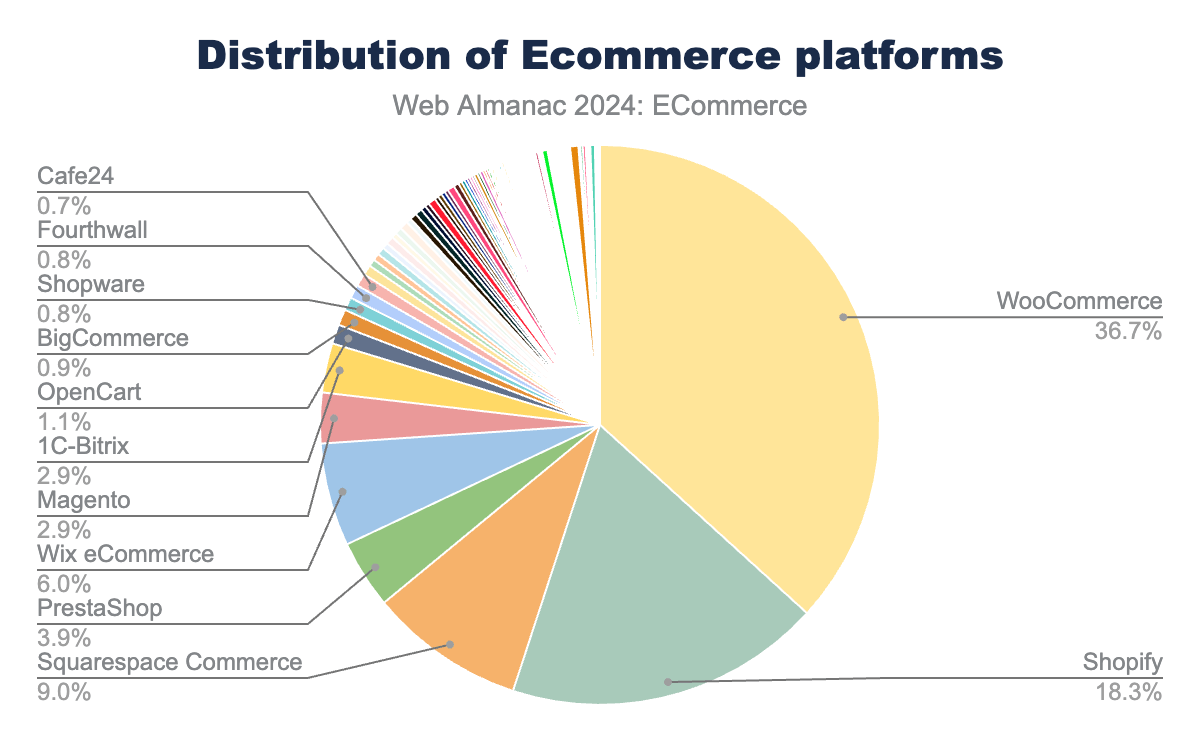
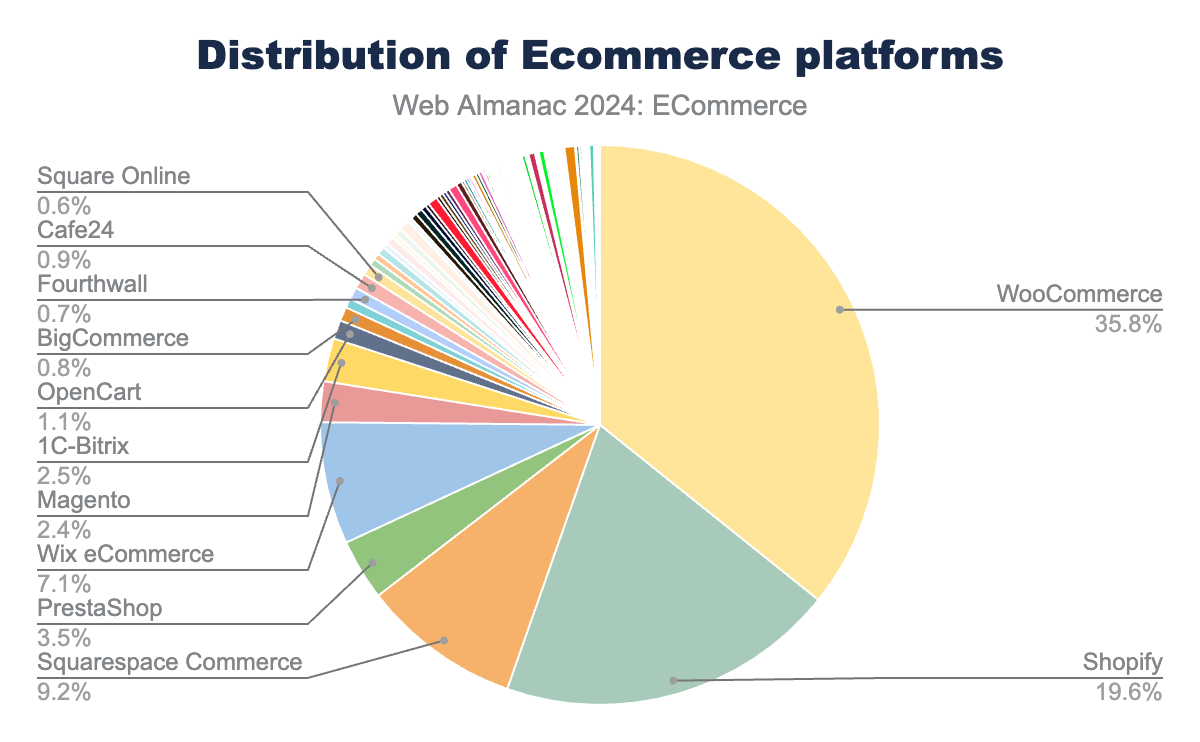
Fix first chart

diff --git a/src/content/en/2024/ecommerce.md b/src/content/en/2024/ecommerce.md
@@ -61,19 +61,17 @@ The accuracy of metrics and commentary may also be affected by the following lim
 
 In total, we detected nearly 2.5 million websites built on ecommerce platforms in 2024, representing approximately 21% of all the websites analyzed. The most widely used ecommerce platform is WooCommerce, followed by Shopify and Squarespace.
 
-WooCommerce (38%) and Shopify (18%) dominate the ecommerce platform landscape. OpenCart is the last of the 362 detected shop systems that manage to secure a share above 1% of the market.
-
 {{ figure_markup(
   image="ecommerce-platforms-distribution.png",
   caption="Distribution of Ecommerce platforms.",
-  description="Pie chart showing the distribution of ecommerce platforms used in 2024. WooCommerce leads with 36.7%, followed by Shopify with 18.3%, Squarespace Commerce with 9.0%",
+  description="Pie chart showing the distribution of ecommerce platforms used in 2024. WooCommerce leads with 35.8%, followed by Shopify with 19.6%, Squarespace Commerce with 9.2%",
   chart_url="https://docs.google.com/spreadsheets/d/e/2PACX-1vTQYSD_rO7eGM-ViE3WD7wQOV0itRwjmNy1lkKOyeF7L_b5EDvDlHjAgIzKBnVwExUzC_PSbg0t-3k5/pubchart?oid=2506095&format=interactive",
   sheets_gid="1000255969",
   sql_file="top_ecommerce.sql"
   )
 }}
 
-Over the years, the top five platforms have remained relatively consistent. However, Wix ecommerce surpassed PrestaShop in 2023, moving from 5th to 4th place. Trends indicate that the open-source project WooCommerce is slightly losing market share, decreasing from 37.3% in 2022 to 35.8% in 2024, while its commercial competitor, Shopify, is gaining market share in the same period (increasing from 17.7% to 19.6%).
+WooCommerce (36%) and Shopify (20%) dominate the ecommerce platform landscape. OpenCart is the last of the 362 detected shop systems that manage to secure a share above 1% of the market.
 
 {{ figure_markup(
   image="top-5-platforms-2021-2024.png",
@@ -85,9 +83,11 @@ Over the years, the top five platforms have remained relatively consistent. Howe
   )
 }}
 
+Over the years, the top five platforms have remained relatively consistent. However, Wix ecommerce surpassed PrestaShop in 2023, moving from 5th to 4th place. Trends indicate that the open-source project WooCommerce is slightly losing market share, decreasing from 37% in 2022 to 36% in 2024, while its commercial competitor, Shopify, is gaining market share in the same period (increasing from 18% to 20%).
+
 ## Top ecommerce platforms by rank
 
-Using the Chrome User Experience Report data, we looked at ecommerce platforms by rank. Our data shows that only a few ecommerce platforms are represented in the top 1,000 websites, while about 20% of the top 10 million websites use an ecommerce platform. This difference could be because the top 1,000 sites often use custom solutions.
+Using the Chrome User Experience Report data, we looked at ecommerce platforms by rank.
 
 {{ figure_markup(
   image="platform-adoption-by-rank.png",
@@ -99,9 +99,7 @@ Using the Chrome User Experience Report data, we looked at ecommerce platforms b
   )
 }}
 
-Compared to the overall web, there are noticeable differences in platform popularity among the top 10 million websites. For instance, Wix ecommerce loses its position in the top five platforms, while Magento joins the top five. In the top one million sites, Shopify overtakes WooCommerce as the most popular platform, while Squarespace and Wix ecommerce fall out of the top five and below the top 20.
-
-In the top 100,000 websites, Salesforce Commerce Cloud and Amazon Webstore emerge among the most used platforms, with Shopify still holding the number one spot. Finally, in the top 10,000 websites, none of the previously leading platforms are represented in the top five, which are instead dominated by commercial solutions such as Fourthwall, SAP, and Salesforce Commerce Cloud.
+Our data shows that only a few ecommerce platforms are represented in the top 1,000 websites, while about 20% of the top 10 million websites use an ecommerce platform. This difference could be because the top 1,000 sites often use custom solutions.
 
 <figure>
   <table>
@@ -161,9 +159,13 @@ In the top 100,000 websites, Salesforce Commerce Cloud and Amazon Webstore emerg
   </figcaption>
 </figure>
 
+Compared to the overall web, there are noticeable differences in platform popularity among the top 10 million websites. For instance, Wix ecommerce loses its position in the top five platforms, while Magento joins the top five. In the top one million sites, Shopify overtakes WooCommerce as the most popular platform, while Squarespace and Wix ecommerce fall out of the top five and below the top 20.
+
+In the top 100,000 websites, Salesforce Commerce Cloud and Amazon Webstore emerge among the most used platforms, with Shopify still holding the number one spot. Finally, in the top 10,000 websites, none of the previously leading platforms are represented in the top five, which are instead dominated by commercial solutions such as Fourthwall, SAP, and Salesforce Commerce Cloud.
+
 ## Top ecommerce platform by geography
 
-There are quite a few differences in preferences between geographies. We used additional data from the CrUX dataset, which categorizes the most visited websites per geogrpahical area. For example, `google.com`, while an American website, is also one of the most visited websites by all German internet users. We can see that three leading platforms take the top spot in each country: WooCommerce (violet), Shopify (green), and 1C-Bitrix (red). The following map visualizes only these three due to the limitations of Google Sheets.
+There are quite a few differences in preferences between geographies. We used additional data from the CrUX dataset, which categorizes the most visited websites per geographical area. For example, `google.com`, while an American website, is also one of the most visited websites by all German internet users.
 
 {{ figure_markup(
   image="top-ecommerce-platform-by-country.png",
@@ -174,6 +176,8 @@ There are quite a few differences in preferences between geographies. We used ad
   sql_file="top_shopsystem_by_geo.sql"
   )
 }}
+
+We can see that three leading platforms take the top spot in each country: WooCommerce (violet), Shopify (green), and 1C-Bitrix (red). The map visualizes only these three due to the limitations of Google Sheets.
 
 ## Core Web Vitals in ecommerce
 
@@ -206,8 +210,6 @@ Largest Contentful Paint (LCP) measures how long it takes for the main content o
 
 A good LCP time should be under 2.5 seconds. If it takes too long, it can make the website feel slow, and users might leave. To improve LCP, you can optimize images, make server responses faster, and minimize blocking scripts so that key content shows up more quickly.
 
-Despite these challenges, the top 10 ecommerce platforms have shown significant year-over-year improvements in their LCP scores. Platforms like Shopify, OpenCart, and Shopware have consistently had good LCP pass rates since 2022, while Tiendanube, a popular platform in Argentina, made impressive progress, increasing its pass rate from 28% in 2022 to 61% in 2024. On the other hand, WooCommerce lags behind with a pass rate of just 34%.
-
 {{ figure_markup(
   image="mobile-lcp-performance.png",
   caption="Mobile year-over-year Platform LCP performance.",
@@ -219,6 +221,8 @@ Despite these challenges, the top 10 ecommerce platforms have shown significant 
   height=644
   )
 }}
+
+Despite these challenges, the top 10 ecommerce platforms have shown significant year-over-year improvements in their LCP scores. Platforms like Shopify, OpenCart, and Shopware have consistently had good LCP pass rates since 2022, while Tiendanube, a popular platform in Argentina, made impressive progress, increasing its pass rate from 28% in 2022 to 61% in 2024. On the other hand, WooCommerce lags behind with a pass rate of just 34%.
 
 ### Cumulative Layout Shift (CLS)
 
@@ -270,8 +274,6 @@ The Lighthouse [performance score](https://developer.chrome.com/docs/lighthouse/
 
 The Lighthouse performance score is a weighted average of the five metric scores—First Contentful Paint (10%), Speed Index (10%), Largest Contentful Paint (25%), Total Blocking Time (30%), Cumulative Layout Shift (25%).
 
-We can see that Wix ecommerce performs very well on both desktop and mobile compared to other systems. This is surprising, as the ranking data shows that it is primarily used for websites outside the top 10 million, which are likely less professional stores. This performance could also be due to the limited customization options compared to open-source systems like WooCommerce.
-
 {{ figure_markup(
   image="median-lighthouse-performance-score.png",
   caption="Median Lighthouse performance score for various ecommerce platforms on desktop and mobile.",
@@ -283,6 +285,8 @@ We can see that Wix ecommerce performs very well on both desktop and mobile comp
   height=559
   )
 }}
+
+We can see that Wix ecommerce performs very well on both desktop and mobile compared to other systems. This is surprising, as the ranking data shows that it is primarily used for websites outside the top 10 million, which are likely less professional stores. This performance could also be due to the limited customization options compared to open-source systems like WooCommerce.
 
 If we lower the threshold to platforms that appear at least 5,000 times instead of 50,000 times, Gumroad scores very well, with a median score of 87 on desktop and 59 on mobile. Additionally, Argentina's most popular shop system, Tiendanube, also scores well, with 74 on desktop and 58 on mobile.
 
@@ -350,10 +354,6 @@ The detection of payment providers is not as advanced or precise as the detectio
 
 The following section focuses on each website with detected payment providers, even if no ecommerce system was identified.
 
-The data reveals that PayPal is the most commonly detected payment method on mobile websites, appearing on 3.5% of all pages in the dataset. This means PayPal was found on approximately 560,000 mobile pages out of more than 16 million analyzed.
-
-Apple Pay ranks second, being detected more frequently than Google Pay, which shows its growing presence in mobile ecommerce. Meanwhile, Shop Pay, a payment solution provided by Shopify, secures third place in the rankings.
-
 {{ figure_markup(
   image="mobile-payment-provider-distribution.png",
   caption="Mobile year-over-year payment provider distribution.",
@@ -366,9 +366,12 @@ Apple Pay ranks second, being detected more frequently than Google Pay, which sh
   )
 }}
 
+The data reveals that PayPal is the most commonly detected payment method on mobile websites, appearing on 3.5% of all pages in the dataset. This means PayPal was found on approximately 560,000 mobile pages out of more than 16 million analyzed.
+
+Apple Pay ranks second, being detected more frequently than Google Pay, which shows its growing presence in mobile ecommerce. Meanwhile, Shop Pay, a payment solution provided by Shopify, secures third place in the rankings.
+
 ## Conclusion
 
 Ecommerce is still evolving, with platform preferences varying by region and website size. While WooCommerce remains the go-to platform for many, Shopify has steadily gained ground, especially among higher-traffic websites. Interestingly, platforms like Wix ecommerce perform well in terms of user experience metrics despite being more popular with smaller sites. Overall, we can observe improvements in most metrics, from performance to accessibility, over the past few years, benefiting everyone.
 
 While ecommerce platforms are diverse and well distributed among different providers, a few key players dominate technologies like payment systems. It will be interesting to see how this landscape continues to evolve in the coming years.
-
